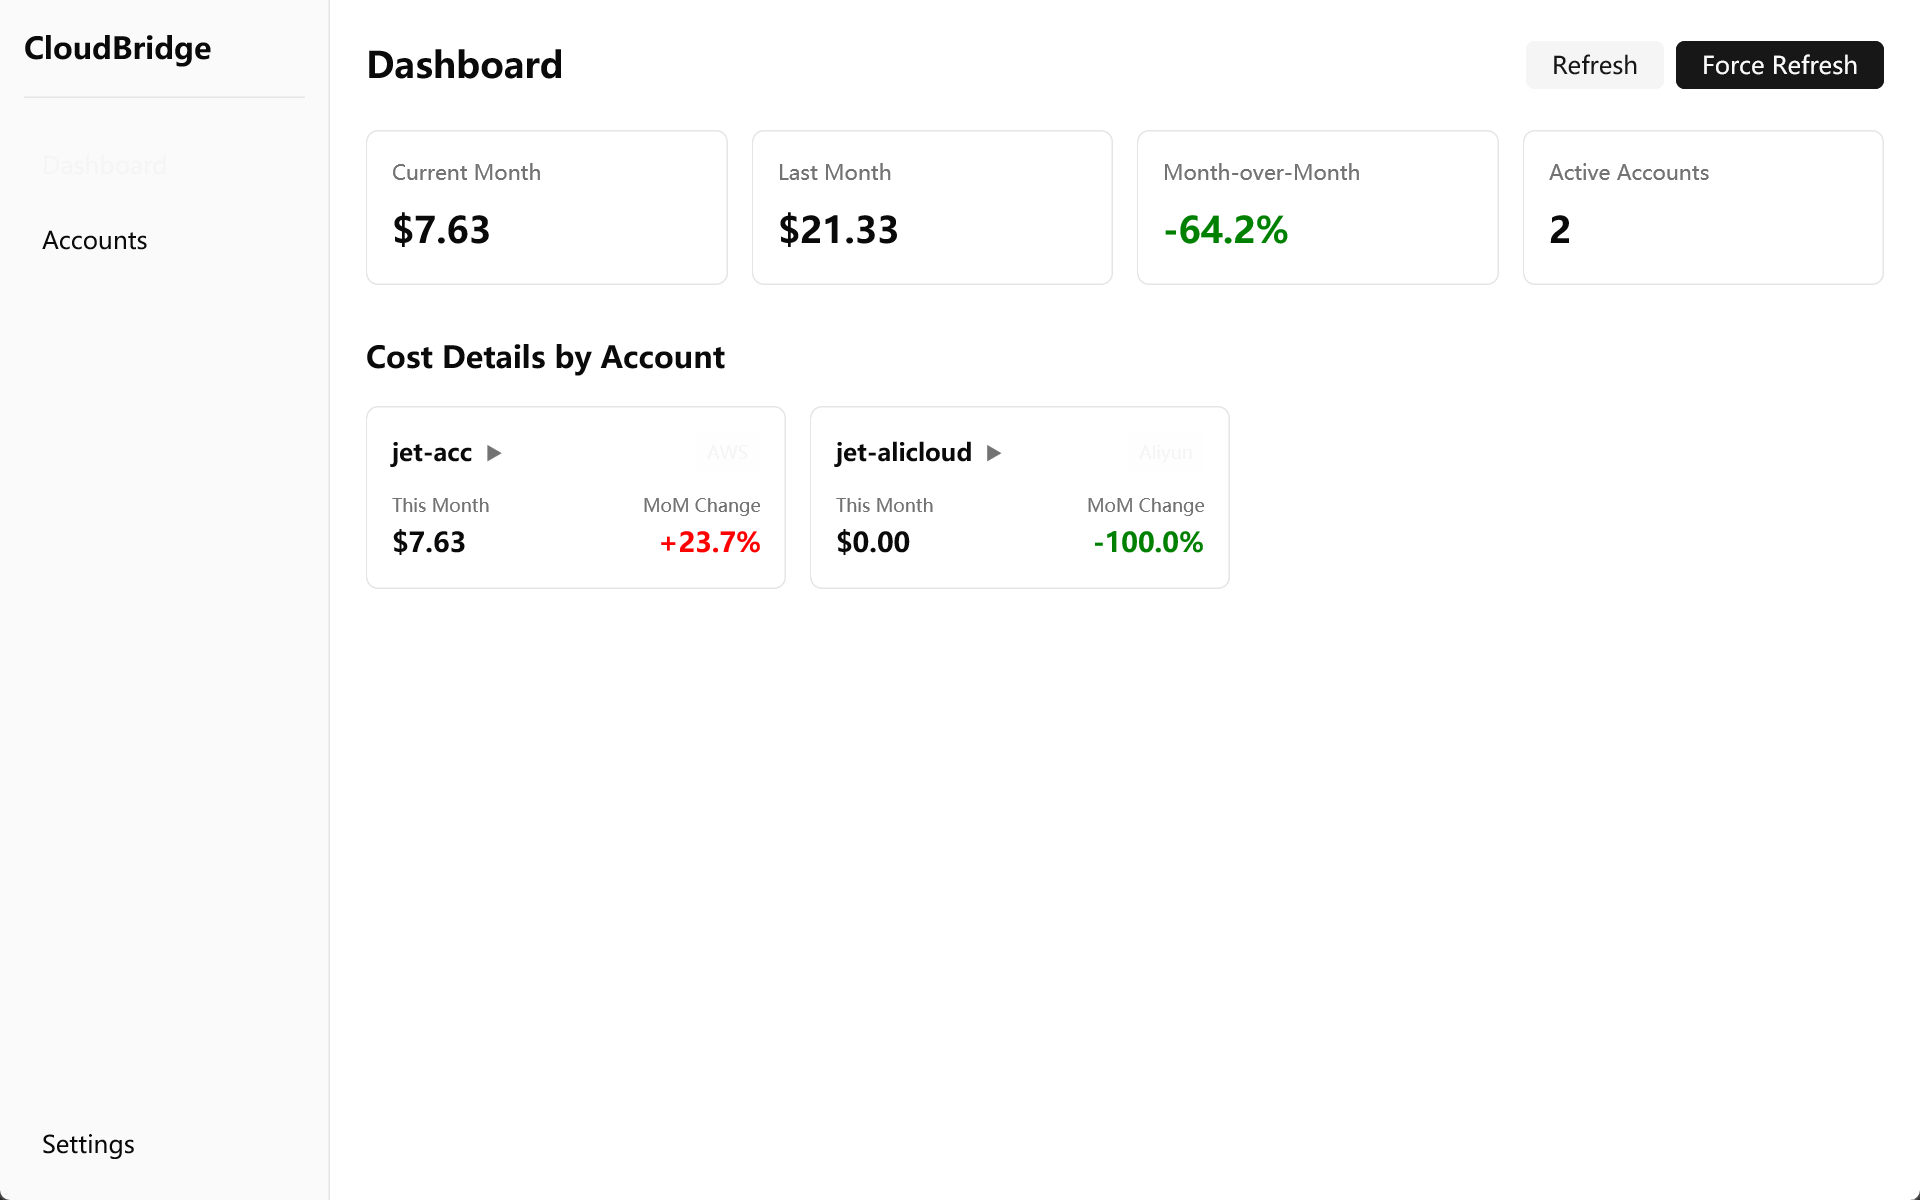
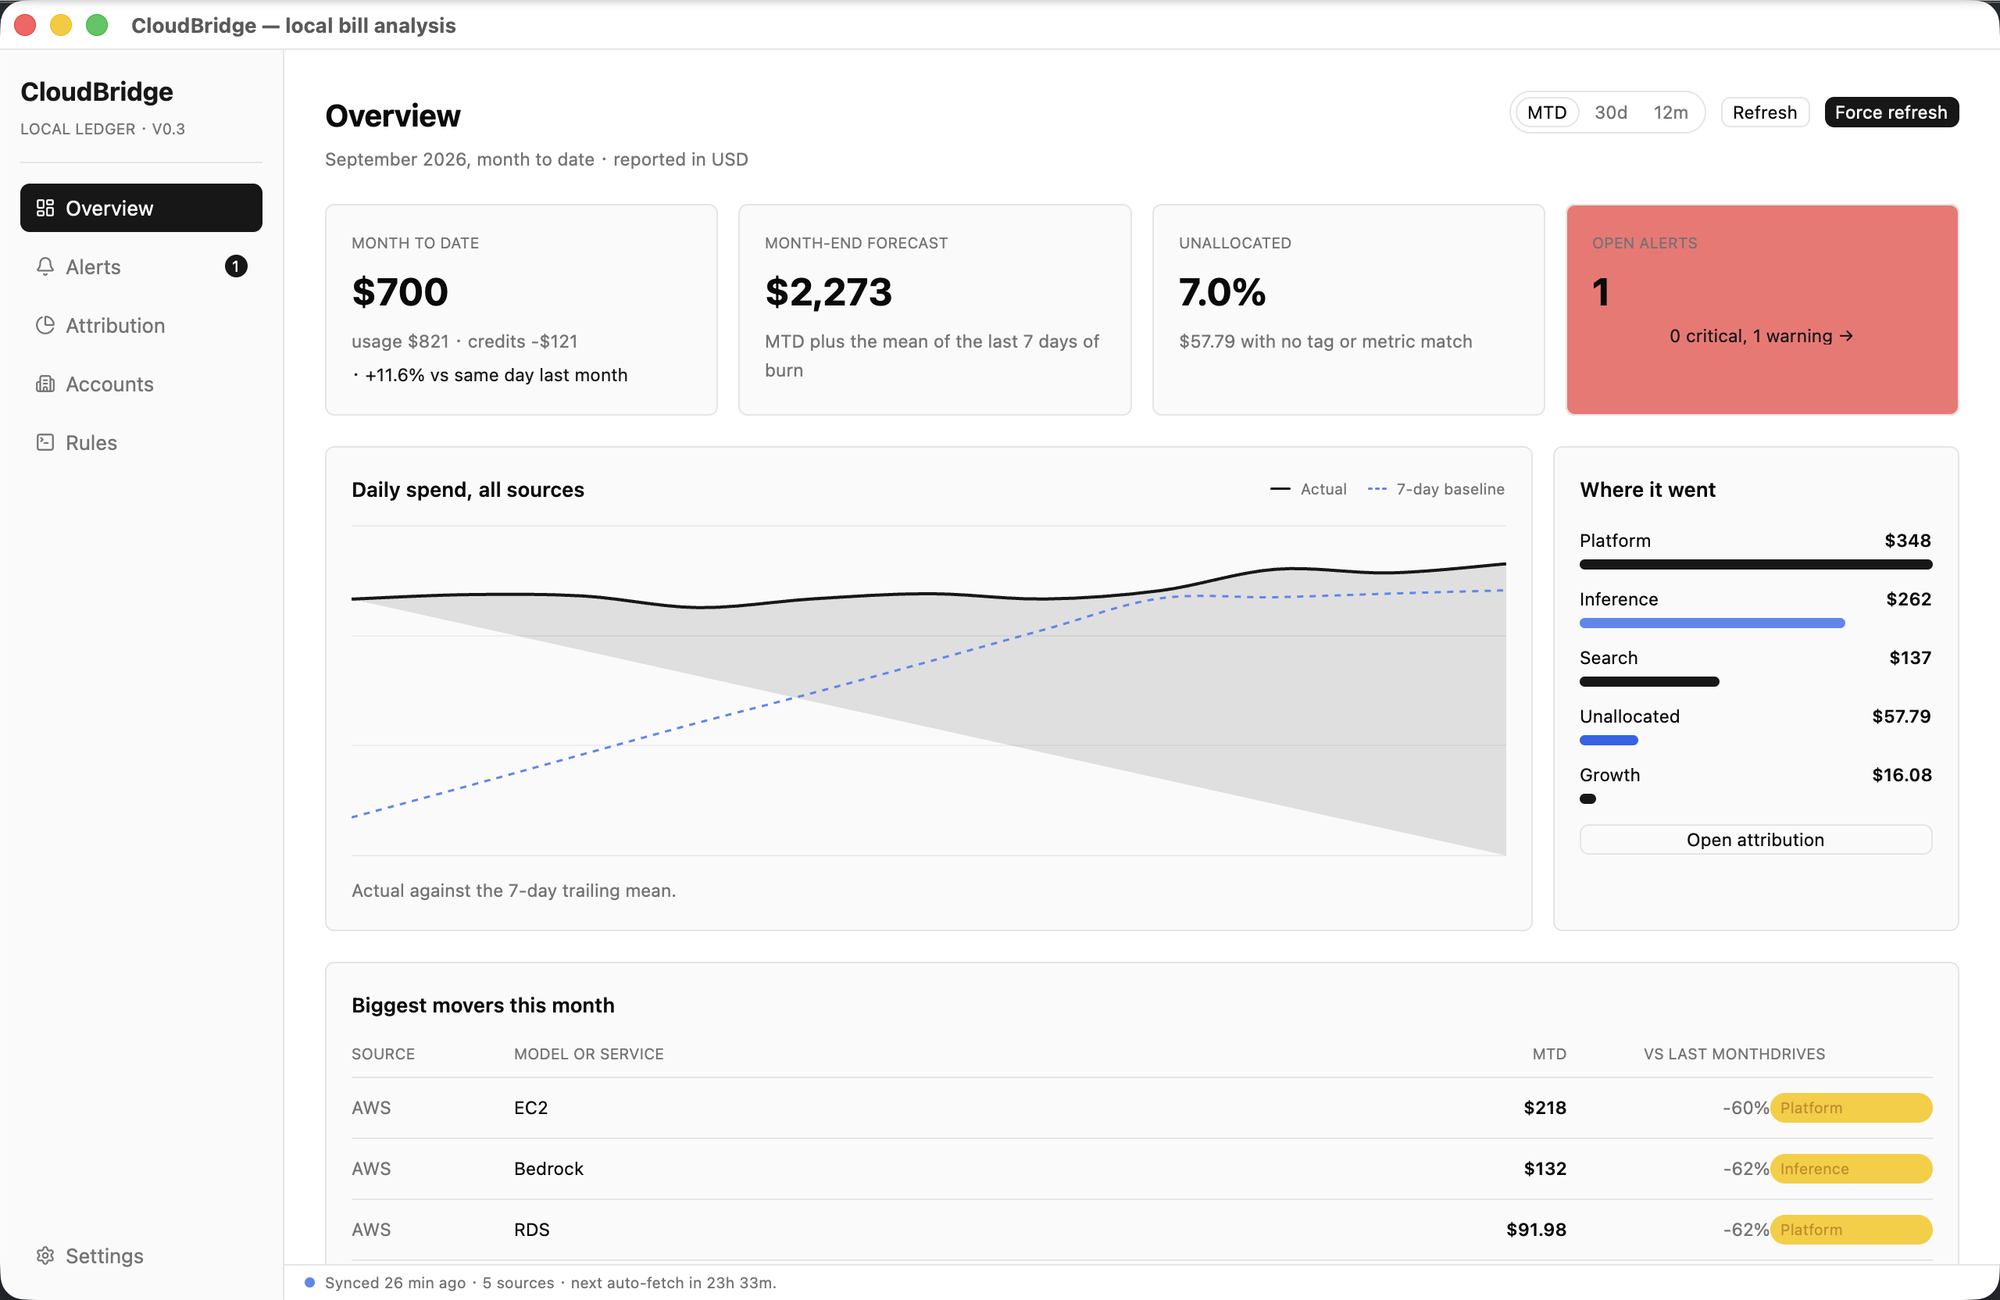
Refresh CloudBridge showcase for v0.3 and add Based README (#15)
## CloudBridge (`apps/cloudbridge`)

- **Cover replaced** with a complete window capture of the current 0.3
Overview page (2000×1300). The previous image was the 0.1 dashboard
without a title bar.
- **Description rewritten** for 0.3: AWS/Alibaba Cloud/DeepSeek billing,
bill export import for OpenAI, Anthropic and Volcengine, forecast,
alerts, Sankey attribution and a single reporting currency. 275 weighted
characters.
- **README added**: product-only introduction covering sources and bill
import, Overview, alerts and rules, Attribution, Accounts, the FOCUS
ledger and reporting currency, and refresh behaviour.
- `publishedAt`, `stars` and `starsUpdatedAt` unchanged.

## Based (`apps/based`)

- **README added**: product-only introduction covering the committed
`.based/` project format, the PostgreSQL/SQLite/MongoDB engines, the SQL
editor and query variables, schema explorer, safe data editing, history,
favorites and the command palette.
- Manifest and cover screenshot unchanged (the existing 3176×1848
capture is the same shot at higher resolution).

Both READMEs link only to the manifest `website` and `source` URLs.
Neither app is added to `featured.json`.

## Checks

- `bun run validate`: passed (48 apps).
- `bun test`: 22 pass, 0 fail.

🤖 Generated with [Claude Code](https://claude.com/claude-code)

https://claude.ai/code/session_01HTFC6U3C2rngbjALJLHBPc

---------

diff --git a/apps/cloudbridge/README.md b/apps/cloudbridge/README.md
@@ -1,0 +1,35 @@
+# CloudBridge
+
+CloudBridge is a local-first desktop ledger for everything an individual developer spends on cloud infrastructure and AI models. It brings AWS, Alibaba Cloud, DeepSeek, Volcengine, OpenAI and Anthropic spend into one native window, one currency, on one machine. Built with Rust and GPUI through gpui-kit, it runs on macOS and Windows and builds from source on Linux. Credentials stay in the OS keyring, nothing syncs to a cloud, and there is no telemetry.
+
+![CloudBridge overview with month-to-date spend, forecast, daily trend and biggest movers](preview0.png)
+
+## Clouds and model providers
+
+AWS and Alibaba Cloud are read through their billing APIs, and DeepSeek reports its prepaid balance. For providers whose console offers a bill export rather than an API, point CloudBridge at the downloaded file: Alibaba Cloud Model Studio, Volcengine Ark, OpenAI, Anthropic and DeepSeek all import per model, so AI spend appears at the same granularity as cloud services. An import replaces every month the file covers, the original file is kept so a mapping fix replays it, and a usage export that carries no amounts is recorded as usage rather than priced at list.
+
+## Overview
+
+Pick month to date, the last 30 days or the last 12 months, and every number on the page follows the selection. The headline total is net of credits, with gross usage and the credits that took it down shown beside it. A month-end forecast extends the current burn, a daily trend is drawn against its 7-day baseline, "Where it went" splits usage across business lines, and the biggest movers table ranks services and models by their change against the comparison window. The unallocated share, the part of the bill that reaches no business line, is a figure of its own.
+
+## Alerts and rules
+
+Three rules ship enabled and are tunable on the Rules page: a source's service running far above its own 7-day trailing baseline for days running, a prepaid balance heading for the floor, and a month where too much usage carries no tag. Each alert says what it saw, the baseline it broke and where the month ends if the condition holds. Resolve, snooze or dismiss it, and a condition that stops holding is resolved for you on the next load.
+
+## Attribution
+
+The Attribution page draws the month as a Sankey from source to service or model to business line, with an explicit Unallocated node so the unexplained part of the bill is visible rather than hidden. Flows run on gross usage, and a charge reaches a business line through its tag.
+
+## Accounts
+
+Each account has its own drill-down with the same range control, a net, gross and credits stat row, a daily or monthly usage trend, and a per-service table with each service's share of the window and its change against the comparison window.
+
+## One currency, one ledger
+
+Charges are stored in the currency they were billed in and converted for display at a rate dated no later than the charge itself. Change the reporting currency in Settings and nothing is rewritten. Every source normalizes into a single fact table named after FOCUS columns, so credits, refunds, taxes and fees are each labelled as themselves, raw provider responses are kept locally so a mapping fix never costs another paid API call, and re-ingesting an unchanged bill produces identical rows.
+
+## Frugal with paid APIs
+
+A billing period is re-fetched at most once per refresh interval, 24 hours by default and adjustable in Settings. Refresh picks up anything past the interval, Force Refresh re-fetches now, and a month you imported from a file is never replaced by either. A demo dataset in Settings loads three accounts and twelve months of realistically shaped ledger so you can explore the app before connecting anything.
+
+[Website](https://cloudbridge.jetsquirrel.cloud) · [GitHub repository](https://github.com/JetSquirrel/cloudbridge)

diff --git a/apps/based/README.md b/apps/based/README.md
@@ -1,0 +1,35 @@
+# Based
+
+Based is a local-first desktop database client written in Rust and GPUI. Instead of keeping connections and queries as private, machine-local state, it reads a `.based/` folder in your repository: connections and saved queries are small TOML files your team reviews in pull requests, while secrets stay in a gitignored `.env`. There is no backend service and no account to sign up for. Connections go straight from the app to your database, with no proxy and no telemetry in the middle.
+
+![Based querying a SQLite Northwind database with the schema tree, SQL editor, results grid and saved queries](preview0.png)
+
+## One folder, committed to git
+
+A `.based/` project holds `project.toml` for shared settings, one file per connection under `connections/` and one file per saved query under `queries/`. Small files mean small diffs and few merge conflicts, so a new teammate clones the repo and has every host, port and database ready. Passwords and tokens are referenced through environment variables and documented in a committed `.env.example`, never as literals in a connection file. Favorites, run history and personal UI state are kept per user outside of git.
+
+## Three engines, side by side
+
+PostgreSQL is the primary engine, with schemas, SSL modes, test-before-connect and everyday parity across local, staging and production. SQLite connections are file-backed, with journal mode, synchronous and foreign-key PRAGMAs set right in the connection file. MongoDB collections and aggregations live in the same project as your SQL connections, and each connection file picks its engine.
+
+## Productive SQL editor
+
+A multi-tab editor with syntax highlighting, one-key formatting and autocomplete. Run the selection, the current statement or the whole script, and cancel a long run. Queries can be parameterized with user variables and built-in `{{$…}}` injection, so the same saved query works across environments without edits. An Explain tab shows the plan beside the results.
+
+## Fast schema explorer
+
+Browse schemas, tables, views, indexes and functions in a responsive tree. Search across every connection and object from one box, and open a table's data or DDL instantly.
+
+## Safe data editing
+
+Inline-edit rows in the results grid with an explicit dirty state and save or discard. Writes never happen behind your back.
+
+## History, favorites and the command palette
+
+Every run is saved to a searchable local history, and the queries you reach for most can be pinned as favorites and rerun in seconds. A command palette drives everything from the keyboard: new query, connect, refresh, format, run, history.
+
+## Native and local-first
+
+Built on the same GPU-accelerated UI framework as Zed, Based ships native builds for macOS, Windows and Linux, with light and dark themes and in-app updates on release builds.
+
+[Website](https://based.pavi2410.com) · [GitHub repository](https://github.com/pavi2410/based)
